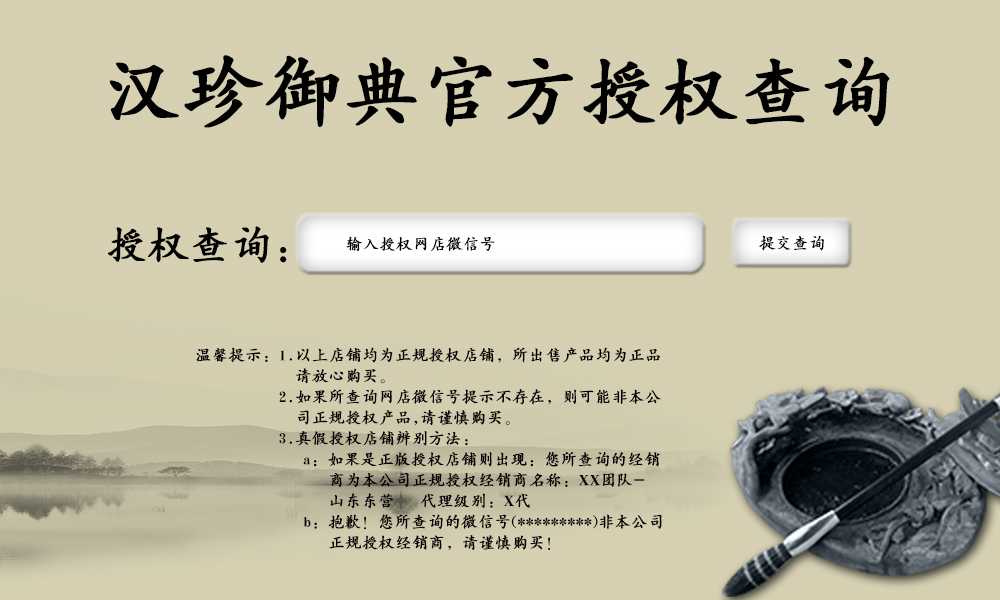
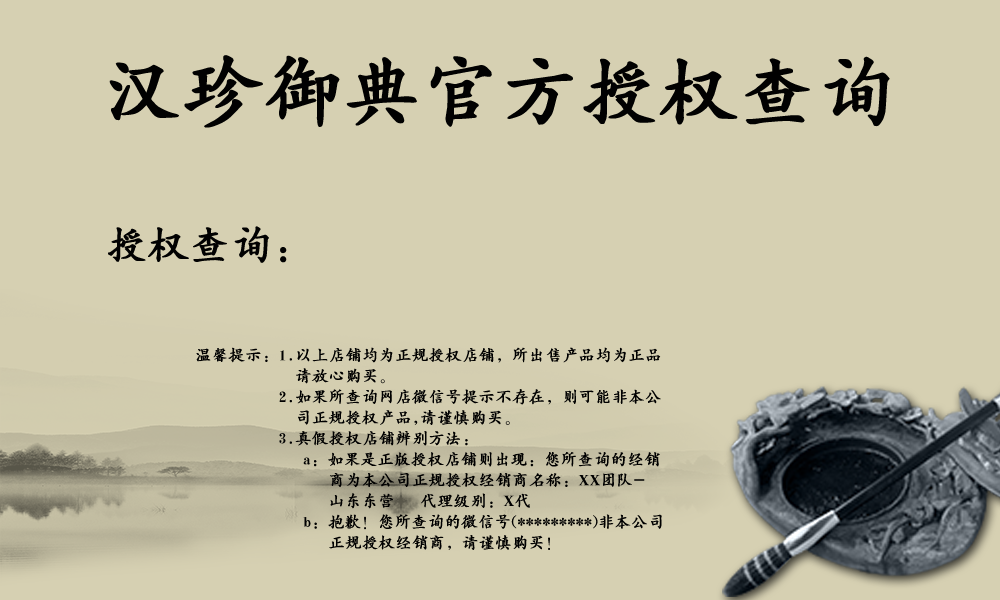
增加搜索结果页面

diff --git a/public/stylesheets/style.css b/public/stylesheets/style.css
@@ -135,3 +135,47 @@ footer h4 {
     border-width: 5px 0 5px 8.7px;
     border-color: transparent transparent transparent #fafafa;
 }
+
+/*searchagent stylesheet*/
+.agentsearch {
+    position: relative;
+    width: 1000px;
+    height: 600px;
+    background: url('/images/agentsearch.jpg');
+}
+
+.inputtext {
+    position: absolute;
+    top: 218px;
+    left: 295px;
+    width: 411px;
+    height: 62px;
+    background: url('/images/searchbg.png');
+    border: none;
+    text-indent: 20px;
+    outline: none;
+}
+
+.searchbtn {
+    position: absolute;
+    top: 221px;
+    right: 149px;
+    width: 122px;
+    height: 52px;
+    background: url('/images/buttonbg.png');
+    border: none;
+    cursor: pointer;
+    outline: none;
+}
+
+.searchresult {
+    width: 1000px;
+    height: 600px;
+    line-height: 400px;
+    background: url('/images/searchresult.png');
+}
+
+.searchresult p {
+    display: inline-block;
+    text-indent: 100px;
+}

diff --git a/routes/index.js b/routes/index.js
@@ -17,6 +17,12 @@ router.get('/agentsearch', function(req, res) {
   res.render('agentsearch');
 });
 
+router.post('/agentsearch', function(req, res) {
+    var name = req.body.name
+    res.locals.label = 'agentsearch';
+    res.render('searchresult', {result: name});
+})
+
 router.get('/instruction', function(req, res) {
     res.locals.label = 'instruction';
   res.render('instruction');
